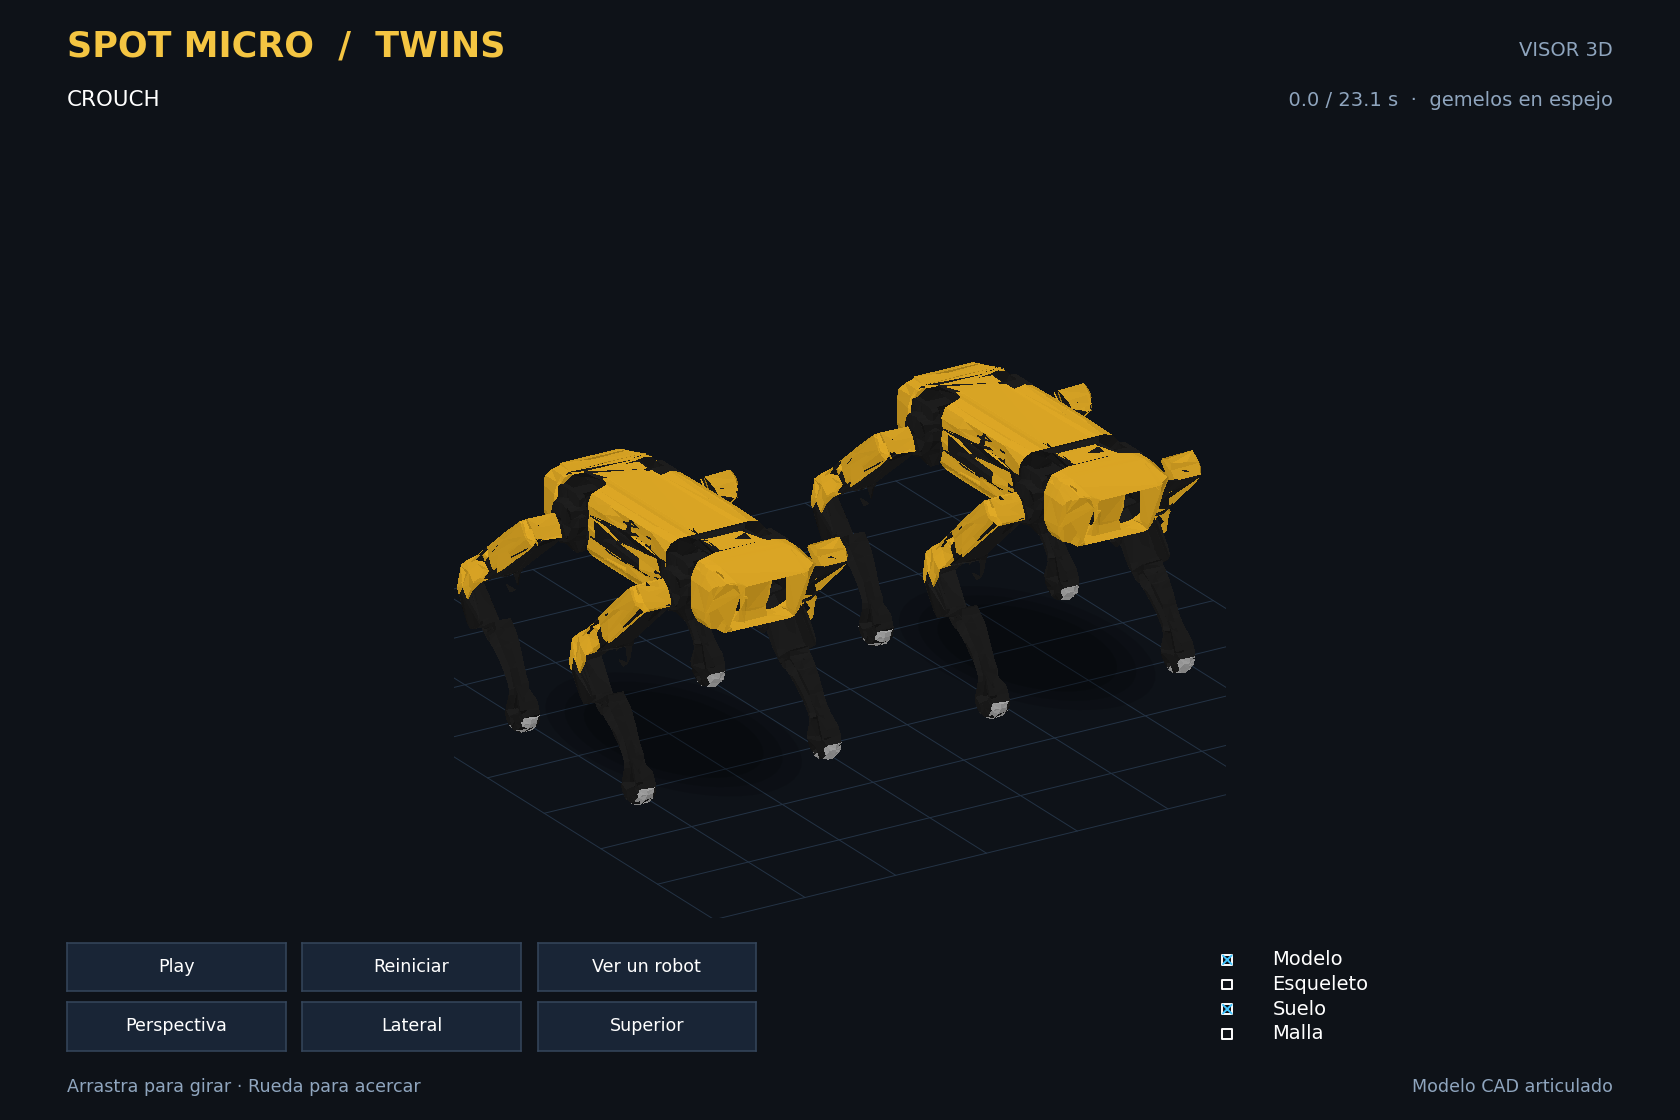
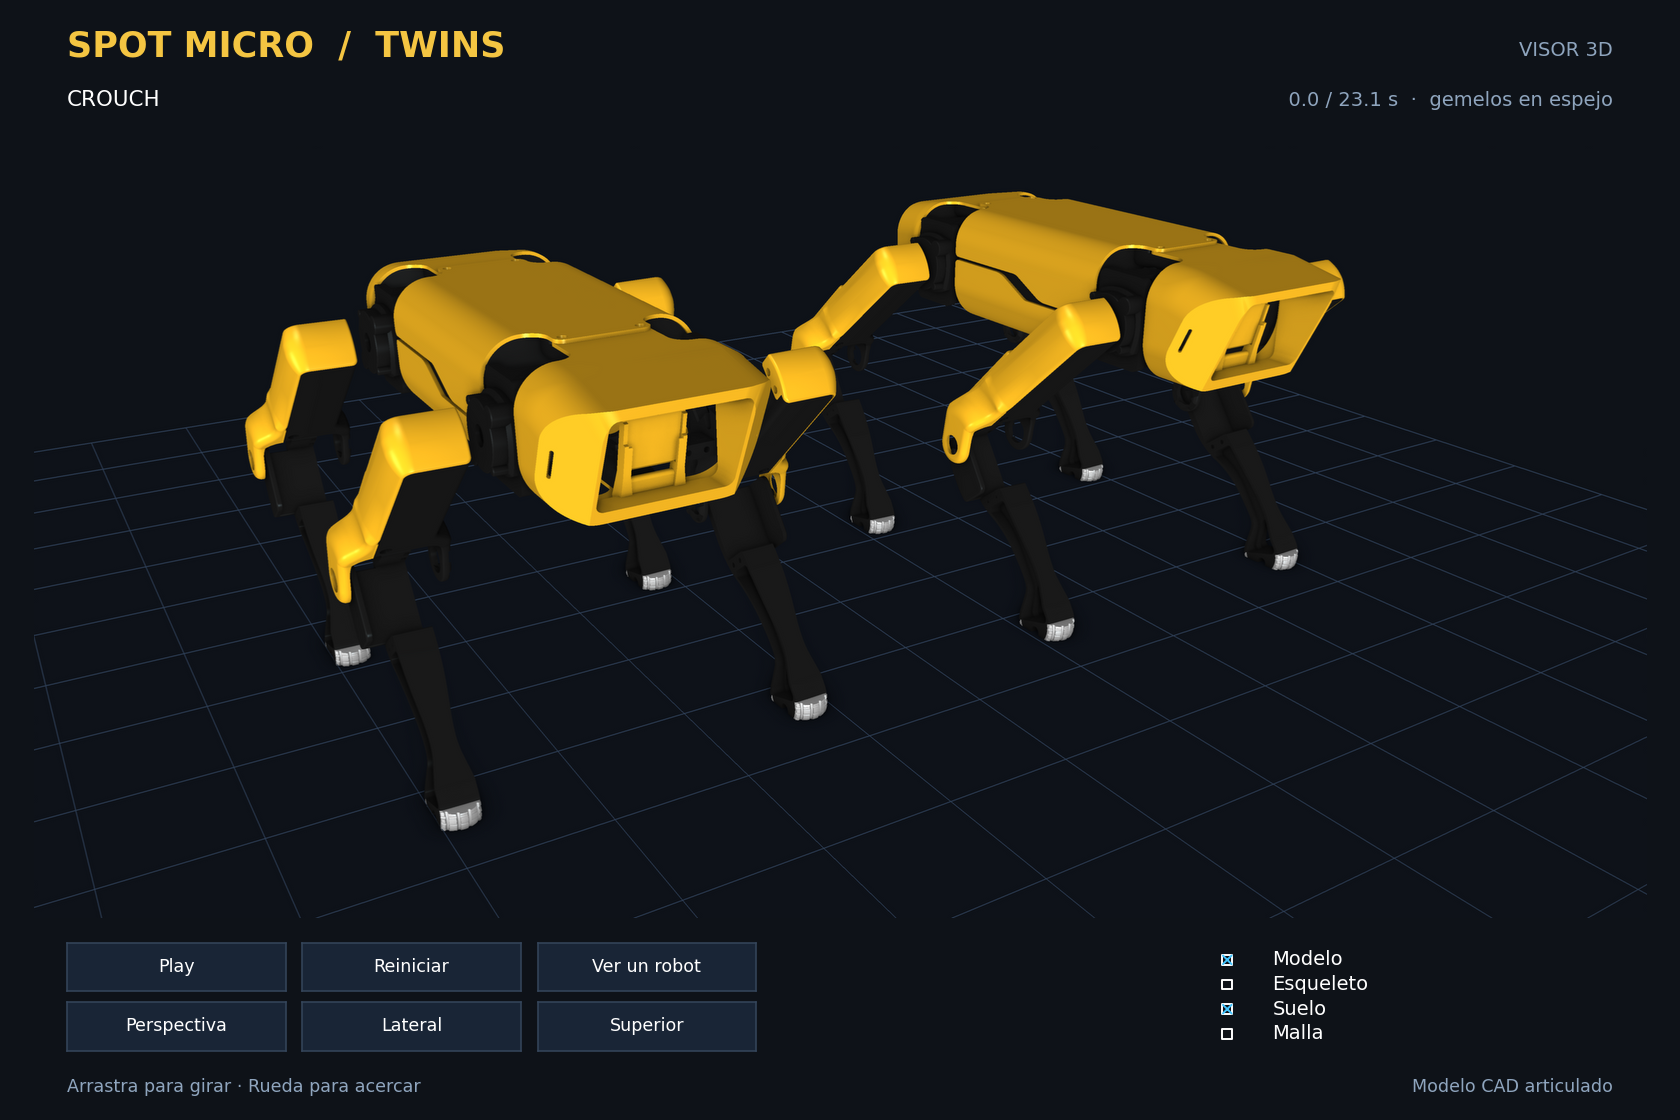
Fail-safe por pérdida de comandos, imagen del visor con el modelo HD y README corregido
- Firmware: tras 1 s sin mensajes el robot se queda estático en la última pose y lo avisa
  por el monitor serie; nuevo comando cmd:ping como heartbeat (sin respuesta).
- GUI: envía cmd:ping cada 200 ms mientras el envío al ESP32 está activo, con pruebas.
- visor-3d.png: gemelos con el modelo HD del visor de la cueva, sin brazo.
- README: servos TD8120MG, potencia del servo corregida, velocidad baja intencional
  para el mapeo con LiDAR, fail-safe documentado y sin "alta velocidad".

diff --git a/firmware/spotmicro_esp32/comms.cpp b/firmware/spotmicro_esp32/comms.cpp
@@ -16,6 +16,8 @@ WebsocketsClient client;
 bool is_connected = false;
 bool mpu_stream = false;
 uint32_t last_stream = 0;
+uint32_t last_rx = 0;  // último mensaje recibido, para el fail-safe
+bool failsafe = false;
 
 // ----- Envío -----
 
@@ -120,6 +122,8 @@ void setMpuStream(bool on, bool ack) {
 }
 
 void handleCommand(const char* cmd) {
+  // Heartbeat de la GUI: solo renueva last_rx, sin respuesta para no llenar el socket
+  if (!strcmp(cmd, "ping")) return;
   LOGI("Comando: %s\n", cmd);
   constexpr char SET_OFFSETS[] = "set_offsets:";
 
@@ -173,6 +177,11 @@ void handleJson(const char* data, size_t len) {
 
 void onMessage(WebsocketsMessage msg) {
   if (!msg.isText()) return;
+  last_rx = millis();
+  if (failsafe) {
+    failsafe = false;
+    LOGI("Fail-safe: comunicación recuperada\n");
+  }
   leds::markActivity(leds::Activity::Receiving);
 
   const auto& payload = msg.data();
@@ -199,6 +208,14 @@ void setConnected(bool c) {
   LOGI(c ? "WebSocket CONECTADO\n" : "WebSocket DESCONECTADO\n");
 }
 
+// Sin mensajes (GUI cerrada, WiFi caído, socket colgado): el robot se queda estático en
+// la última pose recibida, con los servos haciendo fuerza, hasta que vuelva un comando.
+void checkFailsafe() {
+  if (failsafe || !servos::active() || millis() - last_rx < cfg::FAILSAFE_TIMEOUT_MS) return;
+  failsafe = true;
+  LOGI("Fail-safe: %u ms sin comandos, mantengo la última pose\n", cfg::FAILSAFE_TIMEOUT_MS);
+}
+
 }  // namespace
 
 void begin() {
@@ -216,10 +233,12 @@ void loop() {
     mpu_stream = false;
     client.onMessage(onMessage);
     client.onEvent(onEvent);
+    last_rx = millis();
     setConnected(client.available());
     if (is_connected) sendStatus("Conectado al ESP32");
   }
 
+  checkFailsafe();
   if (!is_connected) return;
   if (!client.available()) {
     setConnected(false);

diff --git a/desktop/spotmicro_gui.py b/desktop/spotmicro_gui.py
@@ -114,6 +114,22 @@ def send_command(command):
         ws = None
         return False
 
+HEARTBEAT_MS = 200  # el ESP32 suelta los servos tras 1 s sin mensajes (FAILSAFE_TIMEOUT_MS)
+
+def send_heartbeat():
+    """Mantener vivo el fail-safe del ESP32 aunque la pose no cambie. No reconecta."""
+    global ws, ws_connected
+    if not send_to_esp32_flag.get() or not ws_connected or ws is None:
+        return False
+    try:
+        ws.send("cmd:ping")
+        return True
+    except Exception as e:
+        print(f"⚠ Error enviando heartbeat: {e}")
+        ws_connected = False
+        ws = None
+        return False
+
 # Cinemática y marchas viven en kinematics.py y gait.py
 from kinematics import RotMatrix3D, point_to_rad, normalize_angle, Kinematics
 from gait import GaitManager
@@ -302,7 +318,8 @@ class RobotGUI:
         
         global send_to_esp32_flag
         send_to_esp32_flag = tk.BooleanVar(value=False)
-        
+        self.heartbeat_loop()
+
         # Variables para almacenar valores de todos los modos
         self.joystick_values = {
             "yaw_height": {
@@ -1035,6 +1052,11 @@ class RobotGUI:
         
         # Programar próxima actualización
         self.root.after(100, self.update_mpu_display)
+
+    def heartbeat_loop(self):
+        """Heartbeat periódico para el fail-safe del ESP32"""
+        send_heartbeat()
+        self.root.after(HEARTBEAT_MS, self.heartbeat_loop)
 
     def _process_mpu_data(self, data_str):
         """Procesar datos JSON del MPU-6050 y respuestas de comandos"""

diff --git a/desktop/tests/test_controls.py b/desktop/tests/test_controls.py
@@ -86,6 +86,29 @@ class ServoCommands(unittest.TestCase):
         self.assertIsNotNone(self.app.get_calibrated_angles_for_esp32(angles))
 
 
+class FailsafeHeartbeat(unittest.TestCase):
+    def test_ping_only_while_sending_and_connected(self):
+        for enabled, connected, sent in [(True, True, True), (False, True, False),
+                                         (True, False, False)]:
+            with self.subTest(enabled=enabled, connected=connected):
+                socket = Mock()
+                with patch.object(gui, 'send_to_esp32_flag', variable(enabled), create=True), \
+                        patch.object(gui, 'ws', socket), patch.object(gui, 'ws_connected', connected), \
+                        patch.object(gui, 'connect_ws') as connect:
+                    self.assertEqual(gui.send_heartbeat(), sent)
+                connect.assert_not_called()
+                if sent:
+                    socket.send.assert_called_once_with('cmd:ping')
+                else:
+                    socket.send.assert_not_called()
+
+    def test_heartbeat_faster_than_esp32_timeout(self):
+        config = (Path(__file__).resolve().parents[2] /
+                  'firmware/spotmicro_esp32/config.h').read_text(encoding='utf-8')
+        timeout = int(config.split('FAILSAFE_TIMEOUT_MS =')[1].split(';')[0])
+        self.assertLessEqual(gui.HEARTBEAT_MS * 3, timeout)
+
+
 class ImuResponses(unittest.TestCase):
     def test_command_starts_receiver_without_enabling_telemetry(self):
         socket, handler = Mock(), Mock()

diff --git a/firmware/spotmicro_esp32/servos.cpp b/firmware/spotmicro_esp32/servos.cpp
@@ -9,6 +9,7 @@ Adafruit_PWMServoDriver pwm(cfg::PCA9685_ADDR);
 
 // 0xFFFF = canal nunca escrito, fuerza la primera escritura.
 uint16_t last_pulse[cfg::NUM_SERVOS];
+bool is_active = false;
 
 uint16_t angleToPulse(float angle) {
   angle = constrain(angle, 0.0f, 180.0f);
@@ -34,7 +35,10 @@ void setAll(const float (&angles)[cfg::NUM_SERVOS]) {
     last_pulse[ch] = pulse;
     written++;
   }
-  if (written) leds::markActivity(leds::Activity::Pca);
+  if (written) {
+    is_active = true;
+    leds::markActivity(leds::Activity::Pca);
+  }
 
 #if SPOT_DEBUG
   for (uint8_t leg = 0; leg < cfg::NUM_LEGS; leg++) {
@@ -44,5 +48,7 @@ void setAll(const float (&angles)[cfg::NUM_SERVOS]) {
   LOGD("  (%u canales escritos)\n", written);
 #endif
 }
+
+bool active() { return is_active; }
 
 }  // namespace servos

diff --git a/firmware/spotmicro_esp32/config.h b/firmware/spotmicro_esp32/config.h
@@ -32,6 +32,9 @@ constexpr uint32_t WIFI_CONNECT_TIMEOUT_MS = 15000;
 // Enviar {"status":"angles_received_*"} por cada paquete de ángulos.
 // Desactivado: el notebook no lo usa y, si nadie lee el socket, llena el buffer TCP.
 constexpr bool     ACK_ANGLE_PACKETS   = false;
+// Fail-safe: si no llega ningún mensaje en este tiempo, el robot se queda en la última pose.
+// La GUI manda cmd:ping cada 200 ms mientras el envío está activo.
+constexpr uint32_t FAILSAFE_TIMEOUT_MS = 1000;
 
 // ----- I2C -----
 constexpr uint32_t I2C_CLOCK_HZ        = 400000;  // PCA9685 y MPU6050 soportan Fast-mode

diff --git a/firmware/spotmicro_esp32/servos.h b/firmware/spotmicro_esp32/servos.h
@@ -8,5 +8,6 @@ bool begin();
 // Aplica los 12 ángulos (grados, 0-180) en orden de canal.
 // Solo escribe por I2C los canales cuyo pulso cambió.
 void setAll(const float (&angles)[cfg::NUM_SERVOS]);
+bool active();  // true si ya se movieron los servos al menos una vez
 
 }  // namespace servos

diff --git a/README.md b/README.md
@@ -26,11 +26,11 @@
 
 | | |
 |---|---|
-| **Velocidad** | 10 m/h constantes |
+| **Velocidad** | 10 m/h constantes (baja a propósito: da tiempo al LiDAR para mapear la cueva de forma óptima) |
 | **Fuerza** | 40 kg |
 | **Estructura** | Impresión 3D |
 | **Capacidad** | Subir escaleras y moverse en terrenos irregulares |
-| **Características** | Alta velocidad y gran capacidad de adaptación |
+| **Características** | Gran capacidad de adaptación |
 | **Superficies** | Óptimo para superficies complejas e irregulares |
 
 ## Arquitectura mecánica
@@ -41,7 +41,7 @@
 
 - 4 patas articuladas, 3 grados de libertad por pata (**12 DoF**).
 - Partes estructurales impresas en **PETG/PLA**.
-- **Servomotores de 20 kg·cm** para las articulaciones principales.
+- **Servomotores metálicos TD8120MG de 20 kg·cm** para las articulaciones principales.
 - Geometría inspirada en la morfología de cuadrúpedos reales.
 - Tapones de goma en las bases para mejor adherencia.
 
@@ -57,8 +57,7 @@
 flowchart LR
     GUI[GUI Python] -- "ángulos JSON · cmd:*" --> ESP[ESP32]
     ESP -- "telemetría IMU · status" --> GUI
-    ESP -- I2C --> PCA[PCA9685] --> S[12 servos 20 kg·cm]
-    MPU[MPU6050] -- I2C --> ESP
+    ESP -- I2C --> PCA[PCA9685] --> S[12 servos TD8120MG]    MPU[MPU6050] -- I2C --> ESP
 ```
 
 | Conexión | Detalle |
@@ -73,8 +72,7 @@ Todos los pines y constantes están en [`firmware/spotmicro_esp32/config.h`](fir
 
 | Componente | V mín | V máx | V nominal | Corriente | Potencia |
 |---|---|---|---|---|---|
-| Servo 20 kg | 4.8 V | 7.4 V | 6.4 V | 1–2 A (pico 3 A) | 12–18 W |
-| PCA9685 | 2.3 V | 5.5 V | 5 V | 10–30 mA | < 0.2 W |
+| Servo TD8120MG (20 kg) | 4.8 V | 7.4 V | 6.4 V | 1–2 A (pico 3 A) | 6.4–12.8 W || PCA9685 | 2.3 V | 5.5 V | 5 V | 10–30 mA | < 0.2 W |
 | Placa expansión | 4.8 V | 5.5 V | 5 V | 0.5 A máx | 2.5 W |
 | ESP32 | 3.0 V | 3.6 V | 3.3 V | 80–240 mA | 0.8 W |
 | MPU6050 | 2.3 V | 3.4 V | 3.3 V | 3–5 mA | 0.015 W |
@@ -90,7 +88,8 @@ Todos los pines y constantes están en [`firmware/spotmicro_esp32/config.h`](fir
 
 ## Resultados obtenidos
 
-- Locomoción estable en superficies planas a velocidad constante de 10 m/h.
+- Locomoción estable en superficies planas a velocidad constante de 10 m/h. Es una velocidad
+  intencionalmente baja para que el LiDAR tenga tiempo de mapear la cueva de forma óptima.
 - Capacidad de carga de hasta 2 kg manteniendo la estabilidad.
 - Respuesta rápida de los servomotores con ángulos precisos.
 - Comunicación inalámbrica estable hasta 15 metros de distancia.
@@ -241,7 +240,15 @@ las credenciales se configuran únicamente en `secrets.h`, excluido de Git.
 | `cmd:reset_imu` | `{"status":"IMU reset"}` |
 | `cmd:get_offsets` | `{"status":"offsets_data","accel_offsets":[…],"gyro_offsets":[…]}` |
 | `cmd:set_offsets:ax,ay,az,gx,gy,gz` | `{"status":"Offsets updated"}` |
+| `cmd:ping` | — (heartbeat del fail-safe) |
 | cualquier cosa inválida | `{"status":"error","error":"…"}` |
+
+**Fail-safe por pérdida de comandos:** si el ESP32 pasa 1 s sin recibir ningún mensaje
+(GUI cerrada, WiFi caído o socket colgado), el robot se queda estático en la última pose
+recibida, con los servos haciendo fuerza, y lo indica en el monitor serie. Al volver la
+comunicación sigue con el siguiente paquete de ángulos. La GUI envía `cmd:ping` cada
+200 ms mientras el envío al ESP32 está activo, así que una pose quieta no lo dispara. Un controlador propio debe enviar ángulos o `cmd:ping`
+al menos cada segundo (`FAILSAFE_TIMEOUT_MS` en `config.h`).
 
 ```json
 {"sensor":"mpu6050","accel":{"x":0,"y":0,"z":0},"gyro":{"x":0,"y":0,"z":0},
@@ -250,7 +257,7 @@ las credenciales se configuran únicamente en `secrets.h`, excluido de Git.
 
 ### V6: cambios respecto a V5
 
-Mismo protocolo que V5, así que la GUI funciona sin cambios.
+Mismo protocolo que V5 más `cmd:ping` para el fail-safe.
 
 **Latencia / rendimiento**
 - `server.accept()` bloqueaba el loop hasta que llegara un cliente; ahora solo se llama cuando `server.poll()` indica una conexión pendiente.
@@ -266,13 +273,13 @@ Mismo protocolo que V5, así que la GUI funciona sin cambios.
 - Si el MPU6050 no responde, el robot sigue funcionando sin IMU (V5 se quedaba en `while(1)`).
 - `set_offsets` con valores incompletos se rechaza en vez de aplicar ceros.
 - Un cliente nuevo reemplaza al anterior, útil cuando la GUI se reconecta con un socket viejo medio abierto.
+- Fail-safe: tras 1 s sin mensajes el robot se queda estático en la última pose y lo avisa por el monitor serie.
 
 **Organización**
 - Credenciales fuera del código (`secrets.h`), módulos `servos` / `imu` / `comms` / `leds`, `platformio.ini` con versiones fijadas y CI de GitHub que compila cada push.
 
 ### Pendiente
 
-- Fail-safe: postura segura si no llegan comandos en N ms.
 - Guardar offsets del IMU en NVS (`Preferences`) para no recalibrar en cada arranque.
 - Terminar de separar la GUI en módulos (ya están `kinematics.py` y `gait.py`; falta `gui.py`, comunicación…).
 
